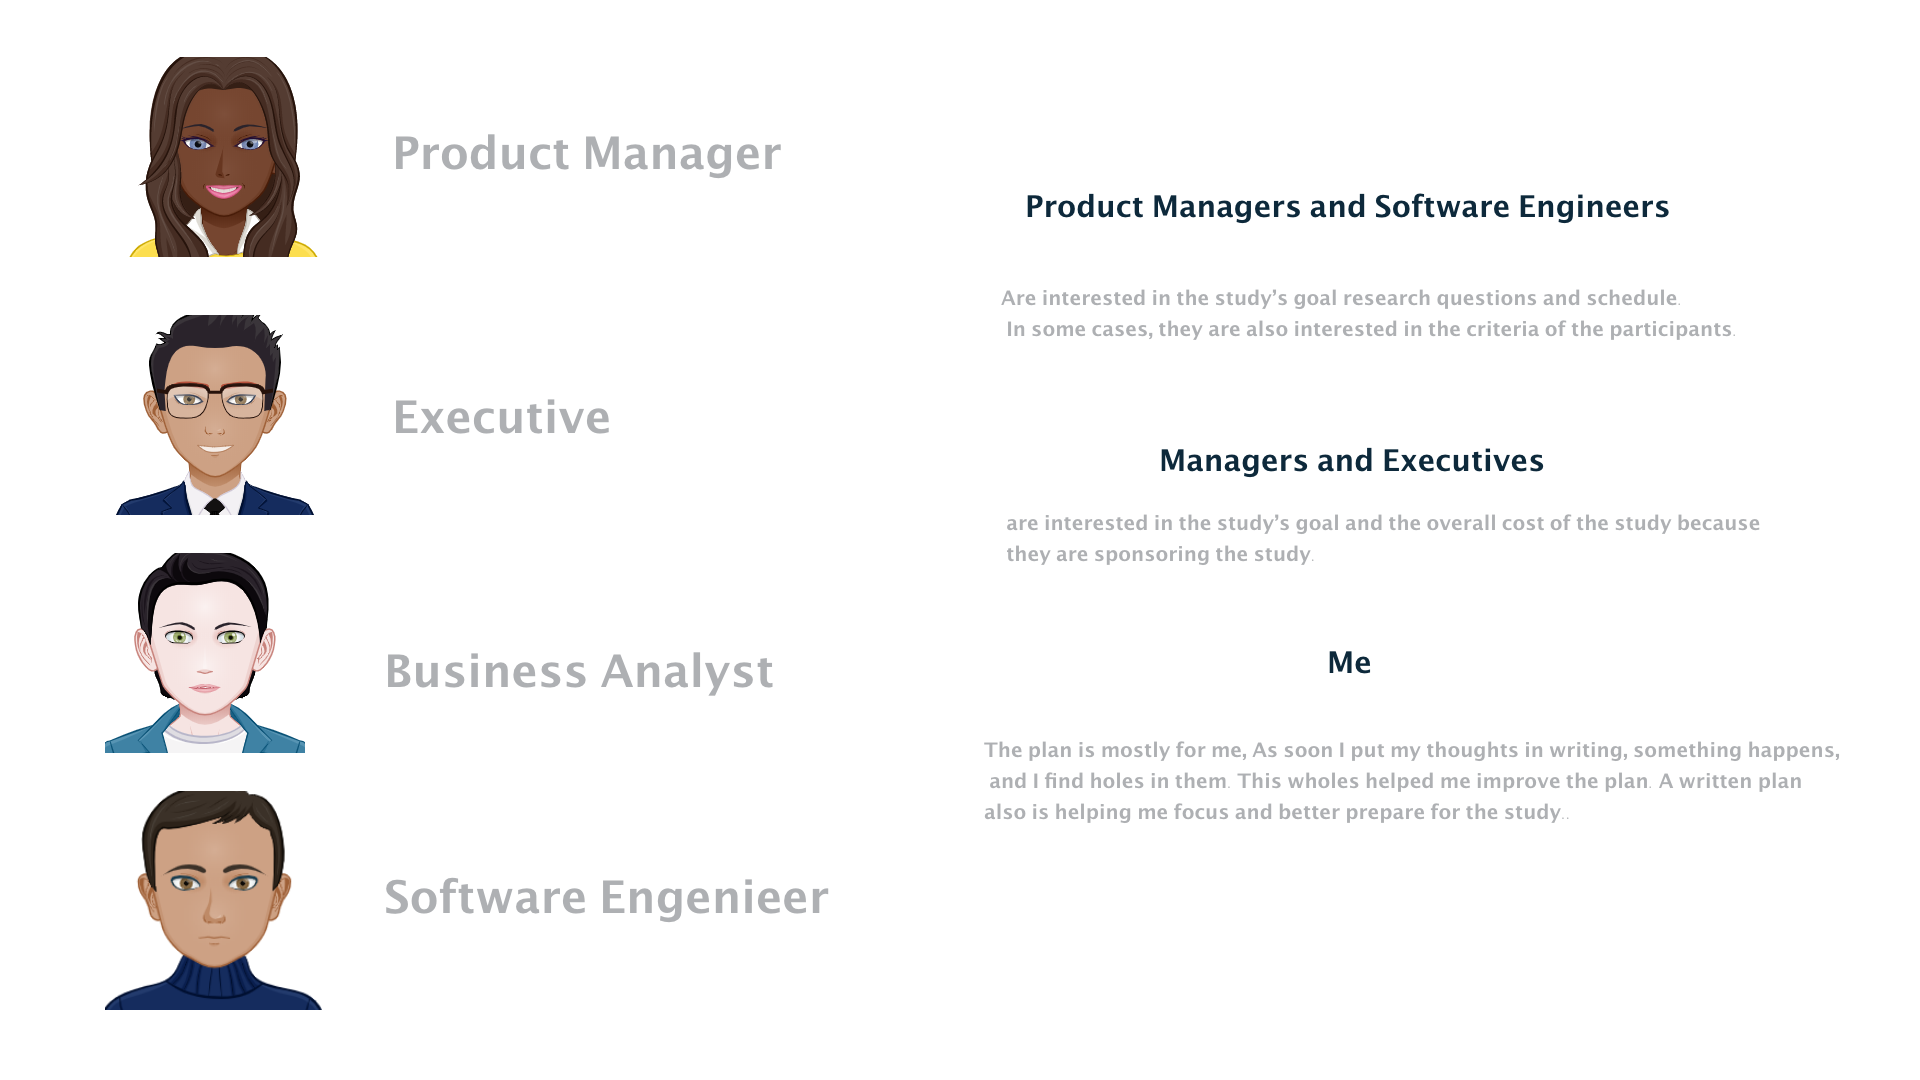
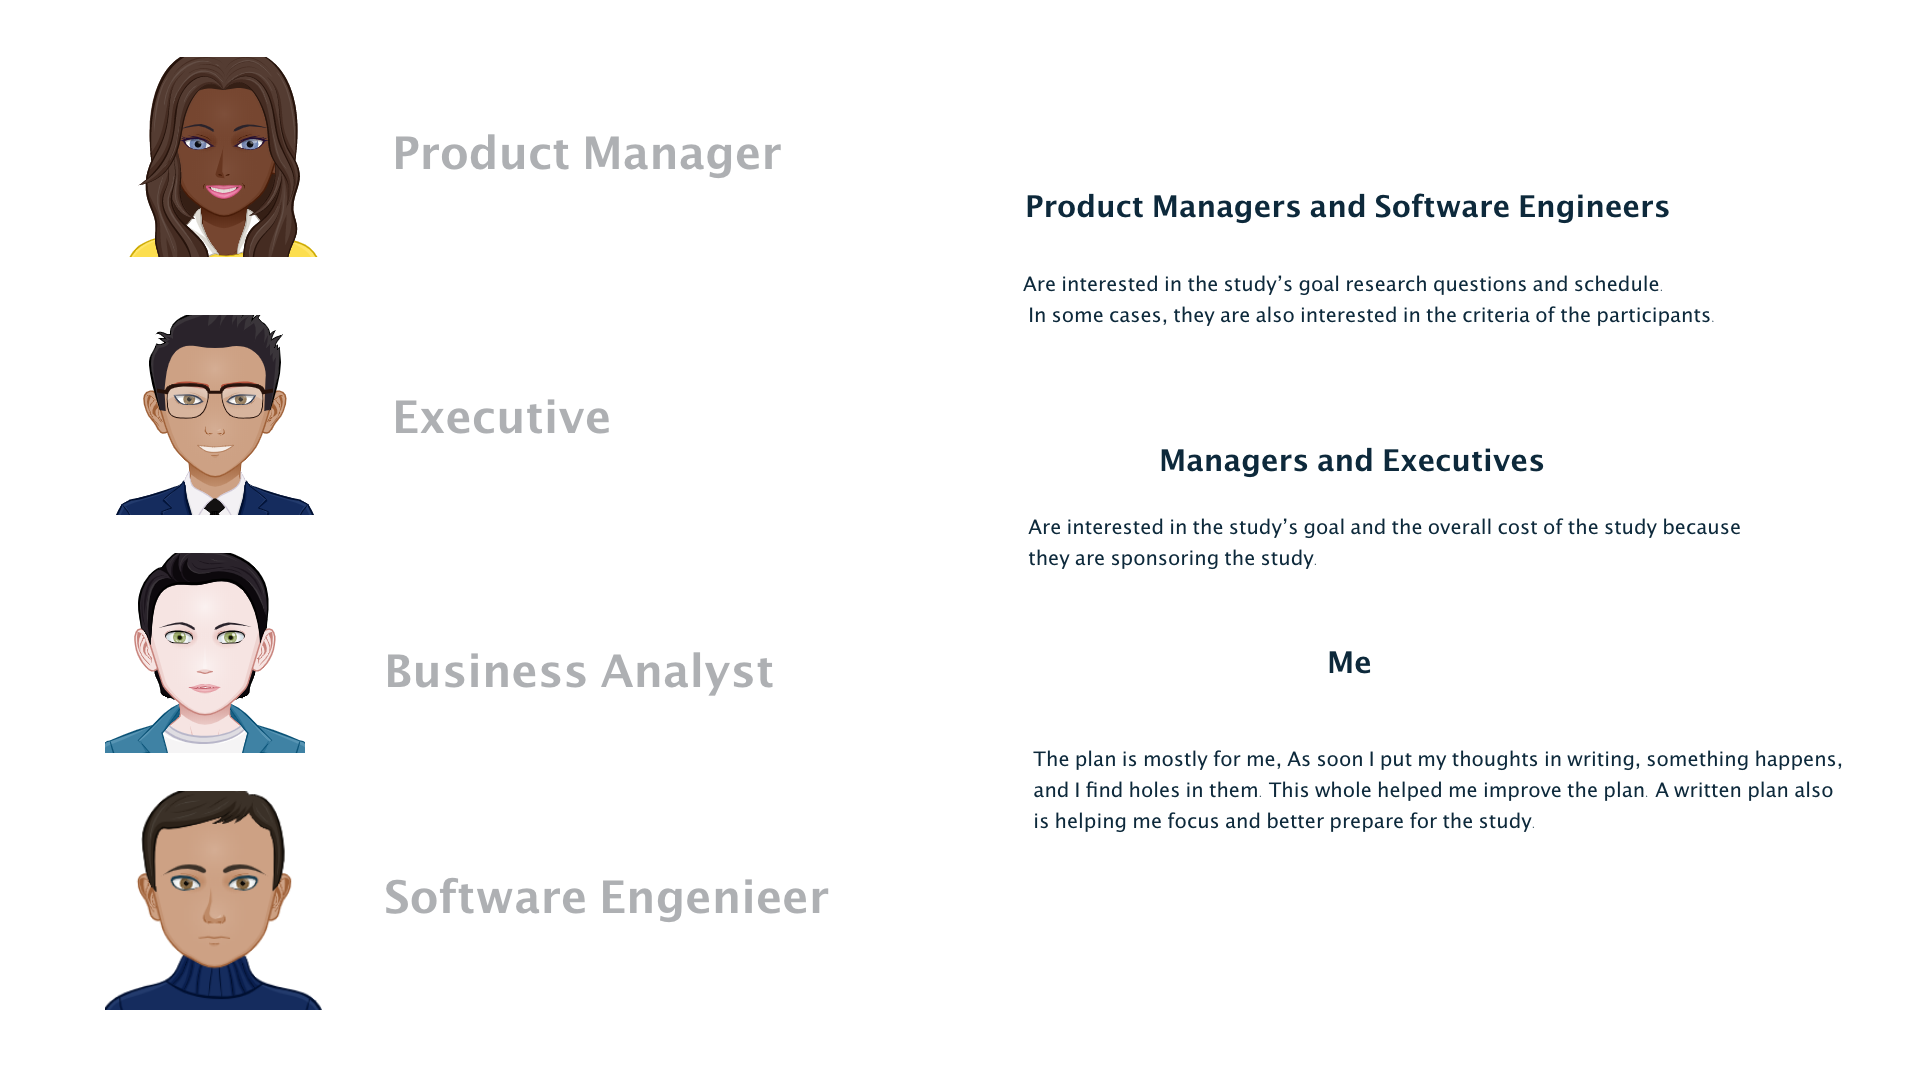
re

Changed region(s): [[0.5, 0.6722, 0.9688, 0.7639], [0.5312, 0.2444, 0.9062, 0.3056], [0.5312, 0.4583, 0.9062, 0.5194]]

diff --git a/index.html b/index.html
@@ -1889,13 +1889,16 @@ Task based rating                                     </li>
 
 
 
-<img class="img-fluid d-block mx-auto" src="./img/portfolio/Web 1920 – 22@2x.png" alt="">
+<img class="img-fluid d-block mx-auto" src="./img/portfolio/research-plan-team@2x.png" alt="">
     
 </div>
 
-<i class="fas fa-user-tie fa-2x"></i>
+<i class="fas fa-user-tie fa-3x"></i>
 <h6 class="text-center  mt-3 mb-3 ">Planning for Stakeholders</h6>
-<p>The user resarch plan love brevety and appreciate succint definitions of what will happen, why, when and with whom. Here are the sections that go in one-page research plan; </p>
+<p>The user research plan loves brevity and appreciates succinct definitions of what will happen, why, when, and with whom. Here are the sections that go in a one-page research plan; </p>
+
+<img class="img-fluid d-block mx-auto" src="./img/portfolio/research-plan-steak.png" alt="">
+
                   </div>
                 </div>
 
